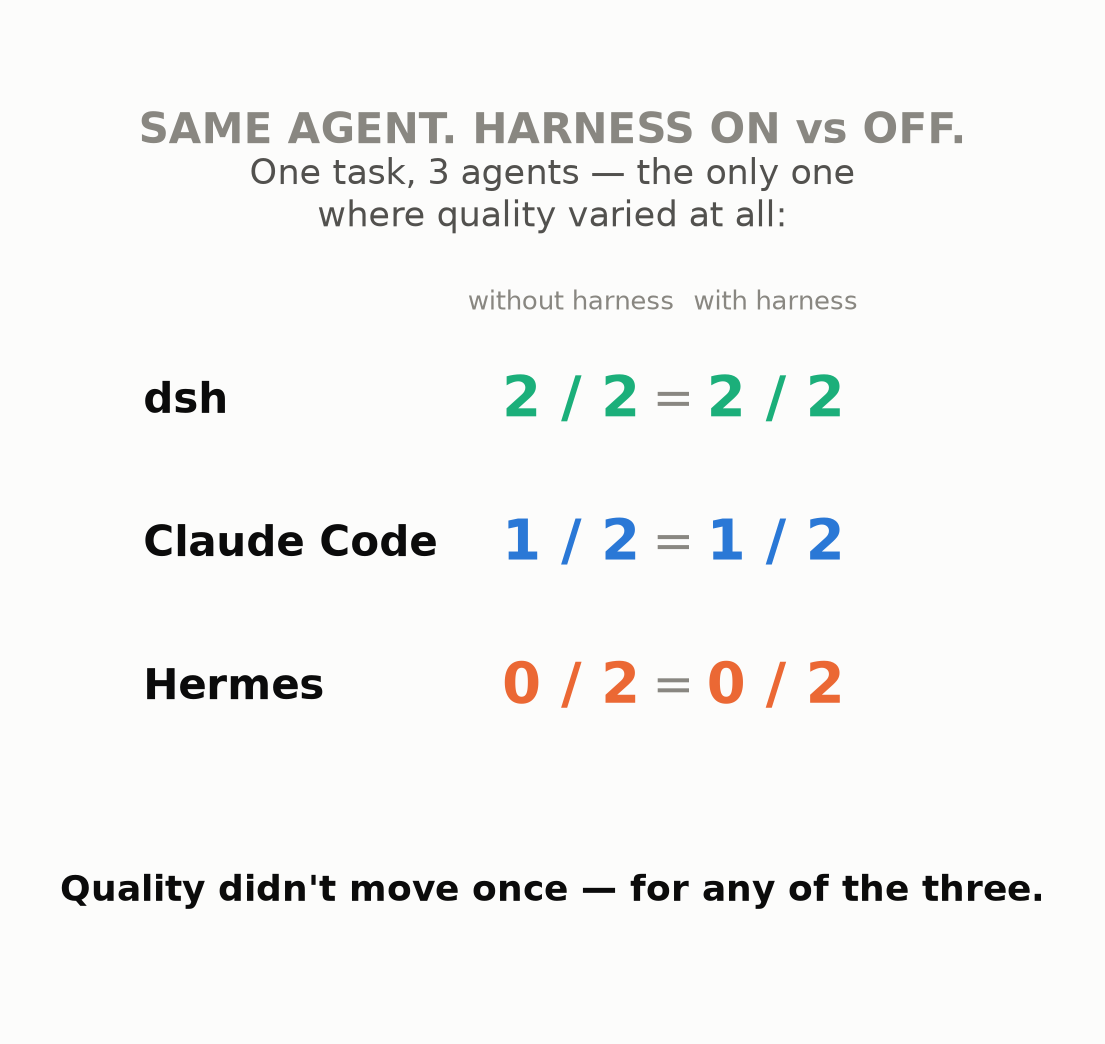
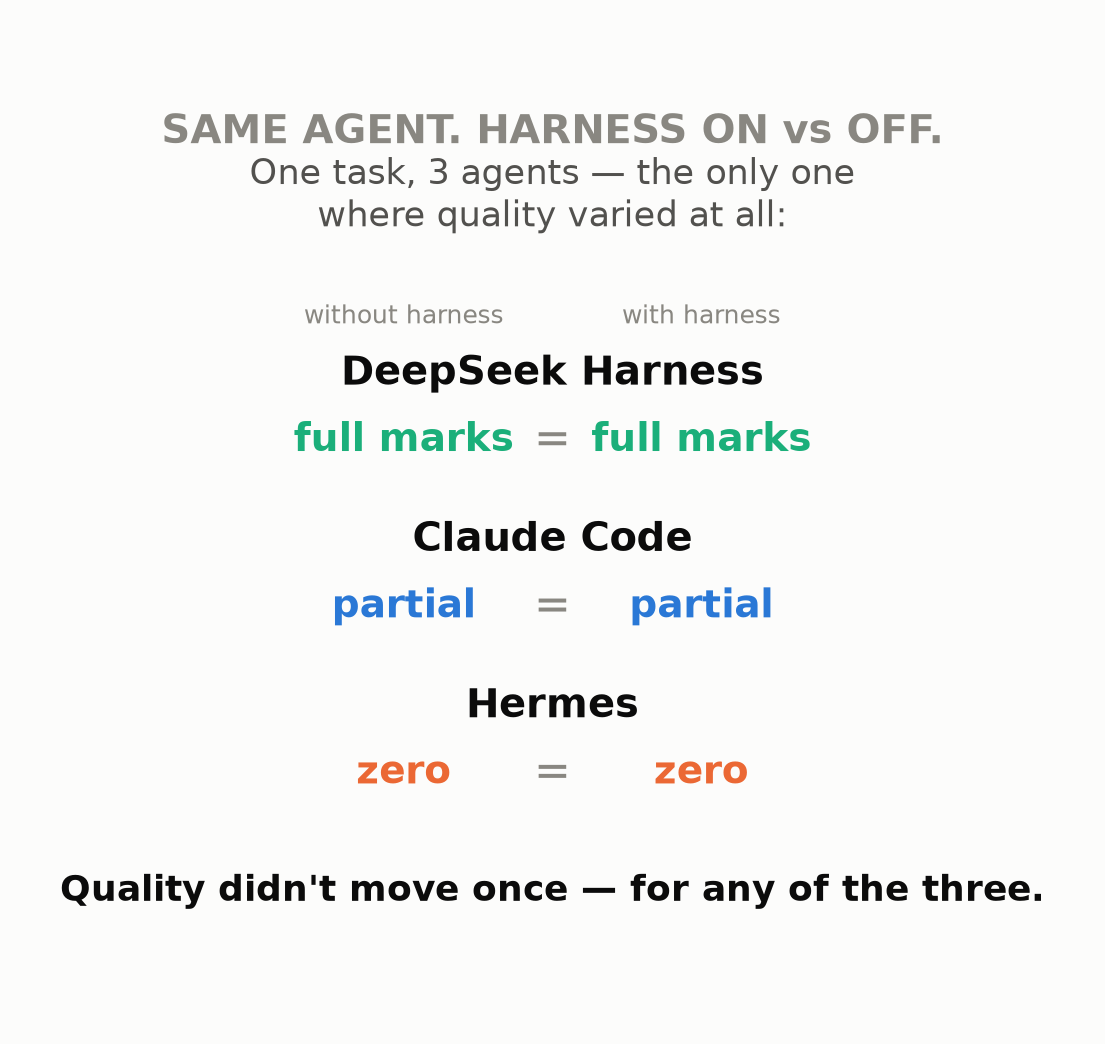
piece(harness-agents-pt1): rework LinkedIn posts/cards per Max's feedback
- dsh -> full "DeepSeek Harness" name everywhere it appears (random LinkedIn
  readers have no earlier definition to fall back on)
- post 1 card: replaced raw small-n score fractions (2/2, 1/2, 0/2) with
  relative/qualitative labels (full marks / partial / zero) - n=2 per cell
  doesn't support that much precision
- post 3 card: added actual OFF->ON toggle switches per agent so the
  harness-on/off axis reads visually, not just as a number
- merged old posts 4 (cheap-model payoff) + 5 (cheapest != best) into one
  post/card; softened the framing - explicitly shows Claude Code's quality
  fell by half on the cheap model on the one task we could compare, so it
  doesn't read as an uncomplicated "just switch" recommendation
- new post 5: Hermes's task-G zero-result run that still cost ~4x more with
  the harness on (effort-vs-outcome case), replacing the retired table card
- rewrote all touched post bodies to stand alone for a cold LinkedIn reader -
  dropped the "closing chart of a 5-part series" cross-reference and similar
  series-dependent framing

diff --git a/pieces/20261106_harness_agents_pt1/linkedin/gen_linkedin_cards.py b/pieces/20261106_harness_agents_pt1/linkedin/gen_linkedin_cards.py
@@ -7,16 +7,18 @@ is copied from the already fact-checked ru.md/en.md — nothing re-derived.
 import matplotlib
 matplotlib.use("Agg")
 import matplotlib.pyplot as plt
+import matplotlib.patches as mpatches
 
 BLUE = "#2a78d6"      # Claude Code
 ORANGE = "#eb6834"    # Hermes
-AQUA = "#1baf7a"      # dsh
+AQUA = "#1baf7a"      # DeepSeek Harness
 RED = "#e34948"
 INK = "#0b0b0b"
 SEC_INK = "#52514e"
 MUTED = "#898781"
 SURFACE = "#fcfcfb"
 GOOD = "#0ca30c"
+TRACK_OFF = "#d8d7ce"
 
 OUT = "/home/harness/harness-projects/256/.worktrees/folder-304/session-c792b49e-e286eed0/pieces/20261106_harness_agents_pt1/linkedin"
 
@@ -37,30 +39,60 @@ def save(fig, name):
     print("wrote", name)
 
 
+def toggle(ax, cx, y, on, color, width=1.1, height=0.46):
+    """A single on/off toggle switch, centered at (cx, y)."""
+    track_color = color if on else TRACK_OFF
+    x0 = cx - width / 2
+    track = mpatches.FancyBboxPatch(
+        (x0, y - height / 2), width, height,
+        boxstyle=f"round,pad=0,rounding_size={height / 2}",
+        linewidth=0, facecolor=track_color, zorder=3,
+    )
+    ax.add_patch(track)
+    knob_r = height / 2 - 0.045
+    knob_x = x0 + width - height / 2 if on else x0 + height / 2
+    knob = mpatches.Circle((knob_x, y), knob_r, facecolor="white", edgecolor="none", zorder=4)
+    ax.add_patch(knob)
+
+
+def toggle_pair(ax, cx, y, color, label_above=None):
+    """OFF -> arrow -> ON, centered at cx."""
+    if label_above:
+        ax.text(cx, y + 0.62, label_above, fontsize=8.5, color=MUTED, ha="center")
+    toggle(ax, cx - 0.95, y, on=False, color=color)
+    ax.text(cx, y, "→", fontsize=15, color=MUTED, ha="center", va="center")
+    toggle(ax, cx + 0.95, y, on=True, color=color)
+
+
 # =====================================================================
-# CARD 1 — quality didn't move
+# CARD 1 — quality didn't move (relative ranking, no raw small-n counts)
 # =====================================================================
 fig, ax = new_fig()
-ax.text(5, 9.1, "SAME AGENT. HARNESS ON vs OFF.", fontsize=15, color=MUTED, ha="center", fontweight="bold")
+ax.text(5, 9.1, "SAME AGENT. HARNESS ON vs OFF.", fontsize=14.5, color=MUTED, ha="center", fontweight="bold")
 ax.text(5, 8.2, "One task, 3 agents — the only one\nwhere quality varied at all:", fontsize=12.5, color=SEC_INK, ha="center")
 
-rows = [("dsh", AQUA, "2 / 2", "2 / 2"), ("Claude Code", BLUE, "1 / 2", "1 / 2"), ("Hermes", ORANGE, "0 / 2", "0 / 2")]
-y0 = 6.3
-for i, (name, color, wo, w) in enumerate(rows):
-    y = y0 - i * 1.55
-    ax.text(0.6, y, name, fontsize=15, color=INK, ha="left", va="center", fontweight="bold")
-    ax.text(5.2, y, wo, fontsize=20, color=color, ha="center", va="center", fontweight="bold")
-    ax.text(6.3, y, "=", fontsize=18, color=MUTED, ha="center", va="center")
-    ax.text(7.4, y, w, fontsize=20, color=color, ha="center", va="center", fontweight="bold")
+ax.text(3.4, 7.15, "without harness", fontsize=9, color=MUTED, ha="center")
+ax.text(6.6, 7.15, "with harness", fontsize=9, color=MUTED, ha="center")
 
-ax.text(5.2, 7.3, "without harness", fontsize=9.5, color=MUTED, ha="center")
-ax.text(7.4, 7.3, "with harness", fontsize=9.5, color=MUTED, ha="center")
+rows = [
+    ("DeepSeek Harness", AQUA, "full marks", "full marks"),
+    ("Claude Code", BLUE, "partial", "partial"),
+    ("Hermes", ORANGE, "zero", "zero"),
+]
+y0 = 6.6
+for i, (name, color, wo, w) in enumerate(rows):
+    y = y0 - i * 1.8
+    ax.text(5, y, name, fontsize=14.5, color=INK, ha="center", va="center", fontweight="bold")
+    yv = y - 0.72
+    ax.text(3.4, yv, wo, fontsize=14, color=color, ha="center", va="center", fontweight="bold")
+    ax.text(5, yv, "=", fontsize=16, color=MUTED, ha="center", va="center")
+    ax.text(6.6, yv, w, fontsize=14, color=color, ha="center", va="center", fontweight="bold")
 
 ax.text(5, 0.9, "Quality didn't move once — for any of the three.", fontsize=13, color=INK, ha="center", fontweight="bold")
 save(fig, "card1_quality_flat")
 
 # =====================================================================
-# CARD 2 — agent noise bigger than the harness signal
+# CARD 2 — agent noise bigger than the harness signal (unchanged)
 # =====================================================================
 fig, ax = new_fig()
 ax.text(5, 9.1, "RUN IT TWICE.", fontsize=22, color=INK, ha="center", fontweight="bold")
@@ -78,65 +110,70 @@ ax.text(5, 1.3, "The agent's own noise outsized\nthe harness effect we were test
 save(fig, "card2_noise_vs_signal")
 
 # =====================================================================
-# CARD 3 — mirror effect on the same switch
+# CARD 3 — mirror effect on the same switch, with an actual toggle
 # =====================================================================
 fig, ax = new_fig()
-ax.text(5, 9.1, "SAME SWITCH. SAME TASK.", fontsize=16, color=MUTED, ha="center", fontweight="bold")
-ax.text(5, 8.25, "Turning the harness ON changed token spend:", fontsize=12.5, color=SEC_INK, ha="center")
+ax.text(5, 9.3, "SAME SWITCH. SAME TASK.", fontsize=16, color=MUTED, ha="center", fontweight="bold")
+ax.text(5, 8.45, "Flipping the harness ON moved token spend:", fontsize=12, color=SEC_INK, ha="center")
 
-ax.text(3, 5.9, "+333%", fontsize=40, color=RED, ha="center", fontweight="bold")
-ax.text(3, 4.85, "Claude Code", fontsize=13, color=INK, ha="center", fontweight="bold")
+toggle_pair(ax, 3, 7.15, BLUE, label_above="harness")
+toggle_pair(ax, 7.3, 7.15, ORANGE, label_above="harness")
 
-ax.text(7.3, 5.9, "−74%", fontsize=40, color=BLUE, ha="center", fontweight="bold")
-ax.text(7.3, 4.85, "Hermes", fontsize=13, color=INK, ha="center", fontweight="bold")
+ax.text(3, 5.7, "+333%", fontsize=36, color=RED, ha="center", fontweight="bold")
+ax.text(3, 4.75, "Claude Code", fontsize=13, color=INK, ha="center", fontweight="bold")
 
-ax.plot([5.1, 5.1], [4.2, 7.1], color="#d8d7ce", linewidth=1.5)
+ax.text(7.3, 5.7, "−74%", fontsize=36, color=BLUE, ha="center", fontweight="bold")
+ax.text(7.3, 4.75, "Hermes", fontsize=13, color=INK, ha="center", fontweight="bold")
+
+ax.plot([5.1, 5.1], [4.1, 7.9], color="#d8d7ce", linewidth=1.5)
 
 ax.text(5, 2.9, "Correct answers either way: 0 out of 4.\nFor both agents.", fontsize=12.5, color=SEC_INK, ha="center")
 ax.text(5, 1.1, "One switch. Opposite reactions. Same outcome.", fontsize=13.5, color=INK, ha="center", fontweight="bold")
 save(fig, "card3_mirror_effect")
 
 # =====================================================================
-# CARD 4 — cheap model payoff differs 6x
+# CARD 4 — cheaper model: savings differ hugely, quality isn't automatic
 # =====================================================================
 fig, ax = new_fig()
-ax.text(5, 9.1, '"JUST USE A CHEAPER MODEL."', fontsize=15.5, color=MUTED, ha="center", fontweight="bold")
-ax.text(5, 8.25, "Same advice, two agents, same cheap/expensive pair:", fontsize=12, color=SEC_INK, ha="center")
+ax.text(5, 9.25, "SAME ADVICE: “USE THE CHEAPER MODEL.”", fontsize=13, color=MUTED, ha="center", fontweight="bold")
+ax.text(5, 8.5, "Two agents, same cheap/pricier pair, same tasks:", fontsize=11.5, color=SEC_INK, ha="center")
 
-ax.text(3, 5.8, "÷9", fontsize=50, color=BLUE, ha="center", fontweight="bold")
-ax.text(3, 4.6, "Claude Code", fontsize=13, color=INK, ha="center", fontweight="bold")
+ax.text(3, 6.9, "÷9", fontsize=46, color=BLUE, ha="center", fontweight="bold")
+ax.text(3, 5.85, "Claude Code", fontsize=12.5, color=INK, ha="center", fontweight="bold")
 
-ax.text(7.3, 5.8, "÷56", fontsize=50, color=ORANGE, ha="center", fontweight="bold")
-ax.text(7.3, 4.6, "Hermes", fontsize=13, color=INK, ha="center", fontweight="bold")
+ax.text(7.3, 6.9, "÷56", fontsize=46, color=ORANGE, ha="center", fontweight="bold")
+ax.text(7.3, 5.85, "Hermes", fontsize=12.5, color=INK, ha="center", fontweight="bold")
 
-ax.plot([5.1, 5.1], [3.9, 7.0], color="#d8d7ce", linewidth=1.5)
+ax.plot([5.1, 5.1], [5.3, 7.9], color="#d8d7ce", linewidth=1.5)
 
-ax.text(5, 1.3, "Same advice. More than 6× difference in payoff.", fontsize=13.5, color=INK, ha="center", fontweight="bold")
-save(fig, "card4_cheap_model_payoff")
+ax.text(5, 4.3, "Quality on the one task we could compare\nbefore → after the switch:", fontsize=10.5, color=SEC_INK, ha="center")
+ax.text(3, 3.1, "full → half", fontsize=15, color=BLUE, ha="center", fontweight="bold")
+ax.text(3, 2.45, "Claude Code", fontsize=9.5, color=MUTED, ha="center")
+ax.text(7.3, 3.25, "full marks\n(cheap model only)", fontsize=12, color=AQUA, ha="center", fontweight="bold")
+ax.text(7.3, 2.45, "DeepSeek Harness", fontsize=9.5, color=MUTED, ha="center")
+
+ax.text(5, 0.6, "Bigger isn't automatically better. Cheaper isn't automatically worse.", fontsize=12, color=INK, ha="center", fontweight="bold")
+save(fig, "card4_cheap_model")
 
 # =====================================================================
-# CARD 5 — no agent wins both cost and quality
+# CARD 5 — effort vs outcome: zero files changed, still cost more
 # =====================================================================
 fig, ax = new_fig()
-ax.text(5, 9.1, "CHEAPEST ≠ BEST.", fontsize=22, color=INK, ha="center", fontweight="bold")
-ax.text(5, 8.25, "54 runs, 3 agents, tokens + a quality rubric:", fontsize=12.5, color=SEC_INK, ha="center")
+ax.text(5, 9.25, "ZERO FILES CHANGED.", fontsize=22, color=INK, ha="center", fontweight="bold")
+ax.text(5, 8.4, "Same task, same model, for Hermes:", fontsize=12.5, color=SEC_INK, ha="center")
 
-rows5 = [
-    ("Hermes", ORANGE, "cheapest", "lowest quality"),
-    ("dsh", AQUA, "mid cost", "highest quality"),
-    ("Claude Code", BLUE, "most expensive", "mid quality"),
-]
-y0 = 6.5
-for i, (name, color, cost, qual) in enumerate(rows5):
-    y = y0 - i * 1.5
-    ax.text(0.6, y, name, fontsize=14.5, color=INK, ha="left", va="center", fontweight="bold")
-    ax.text(5.6, y, cost, fontsize=12.5, color=color, ha="center", va="center", fontweight="bold")
-    ax.text(8.7, y, qual, fontsize=12.5, color=color, ha="center", va="center", fontweight="bold")
+toggle_pair(ax, 5, 6.95, ORANGE, label_above="harness")
 
-ax.text(5.6, 7.3, "on cost", fontsize=9, color=MUTED, ha="center")
-ax.text(8.7, 7.3, "on quality", fontsize=9, color=MUTED, ha="center")
+ax.text(3, 5.5, "0 files", fontsize=22, color=MUTED, ha="center", fontweight="bold")
+ax.text(3, 4.75, "without harness", fontsize=10, color=MUTED, ha="center")
 
-ax.text(5, 0.9, "No agent wins on both at once.", fontsize=14, color=INK, ha="center", fontweight="bold")
-save(fig, "card5_no_free_lunch")
+ax.text(7, 5.5, "0 files", fontsize=22, color=MUTED, ha="center", fontweight="bold")
+ax.text(7, 4.75, "with harness", fontsize=10, color=MUTED, ha="center")
+
+ax.text(5, 3.3, "≈4×", fontsize=40, color=RED, ha="center", fontweight="bold")
+ax.text(5, 2.3, "higher price for the identical\nzero-result outcome", fontsize=11, color=SEC_INK, ha="center")
+
+ax.text(5, 0.7, "Effort moved. The result didn't.", fontsize=13.5, color=INK, ha="center", fontweight="bold")
+save(fig, "card5_zero_result")
 
 print("done: 5 LinkedIn cards")

diff --git a/pieces/20261106_harness_agents_pt1/linkedin/04-cheap-model-payoff.md b/pieces/20261106_harness_agents_pt1/linkedin/04-cheap-model-payoff.md
@@ -1,20 +1,22 @@
 ---
 channel: linkedin
 status: draft
-title: 'Just use a cheaper model'
-image: card4_cheap_model_payoff.png
+title: Bigger isn't always better
+image: card4_cheap_model.png
 series: harness-agents-pt1 (post 4 of 5)
 ---
 
-**"Just switch to a cheaper model" is the same advice for every agent. The payoff isn't.**
+**Two AI coding agents got the exact same advice — switch to the cheaper version of the same model. The savings weren't close to equal. And "cheaper" didn't automatically mean "worse," either.**
 
-We moved two coding agents from the expensive version of a model to the cheap one in the same lineup, same tasks. Claude Code's bill dropped 9×. Hermes's dropped 56×. More than a sixfold gap between them, from the identical switch.
+Across the full test — 54 runs, three agents, token cost plus a quality check — no single agent came out ahead on both price and quality at once. The cheapest agent by tokens also scored the lowest on quality, where quality could be measured at all. The agent with the best quality score wasn't the cheapest one.
 
-The rate card is the same for both. What differs is how each agent is built — how often it calls the model, and how much it rereads from cache instead of resending fresh. Cache is priced differently from a fresh token, so an agent that leans on cache gets a double discount when the model gets cheaper. One that doesn't, gets a single one.
+Then we looked at one specific move: shifting an agent from the pricier version of a model to the cheaper one in the same lineup, same tasks. Claude Code's bill fell roughly 9×. Hermes's fell roughly 56× — more than six times the gap, from the identical move. The difference comes down to how each agent is built: how often it calls the model, and how much it rereads from cache instead of resending context fresh — not the price list itself.
 
-If you're optimizing spend by model tier alone, the agent's own architecture might matter more than the price list.
+On the one task where we could compare a single agent's own result before and after that switch, Claude Code's score fell by half on the cheaper model. DeepSeek Harness, tested only on the cheaper model, still turned in a perfect score.
 
-Anyone measured this on their own stack — did the "obvious" savings actually show up?
+A pricier model isn't automatically the better choice. A cheaper one isn't automatically the worse one. Worth checking on your own tasks before assuming either way.
+
+Has a cheaper model ever cost you more than it saved — or surprised you by holding up just fine?
 
 Full study, open data, open tooling: [link to tellian.io]
 

diff --git a/pieces/20261106_harness_agents_pt1/linkedin/03-mirror-effect.md b/pieces/20261106_harness_agents_pt1/linkedin/03-mirror-effect.md
@@ -6,16 +6,16 @@ image: card3_mirror_effect.png
 series: harness-agents-pt1 (post 3 of 5)
 ---
 
-**Same switch. Same task. One agent's token spend went up 333%. Another's dropped 74%. Both got the same answer wrong.**
+**Flip the exact same switch — turning a "harness" (rules, tools, memory) on — for two different AI coding agents, on the same task. One agent's cost went up 333%. The other's dropped 74%. Both still got it wrong.**
 
-We flipped the exact same "harness" (rules, tools, memory) on for two different coding agents, on the same task — a PR review with an independently pre-written answer key. Claude Code's cost quadrupled. Hermes's cost dropped to a quarter. Neither agent found the actual defects, with the harness or without it — 0 out of 4 either way.
+The task was a PR review with an answer key written independently in advance, so right and wrong were decided before we ran anything. Claude Code's cost quadrupled when the harness switched on. Hermes's cost dropped to a quarter. Neither agent found the actual defects in the pull request — with the harness, or without it.
 
 Tokens moved in opposite directions. Correctness didn't move at all.
 
-The same set of rules doesn't land the same way twice. Tune a harness for one agent, and it's a tune for that agent's character — not a setup that travels to the next one.
+The same switch doesn't do the same thing twice. Tune a setup for one agent, and it's tuned to that agent's own habits — not something that automatically carries over to the next one.
 
-Has switching agents ever flipped a setup that "just worked" for you?
+Has switching tools or agents ever flipped a setup that "just worked" for you?
 
 Full study, open data, open tooling: [link to tellian.io]
 
-#AIAgents #ClaudeCode #PromptEngineering #DeveloperTools #LLM
+#AIAgents #PromptEngineering #DeveloperTools #LLM #Benchmarking

diff --git a/pieces/20261106_harness_agents_pt1/linkedin/01-quality-flat.md b/pieces/20261106_harness_agents_pt1/linkedin/01-quality-flat.md
@@ -6,16 +6,16 @@ image: card1_quality_flat.png
 series: harness-agents-pt1 (post 1 of 5)
 ---
 
-**We gave a coding agent a full "harness" — rules, tools, memory — then took it away. Ran that on three different agents. Quality didn't move once.**
+**We gave an AI coding agent a full "harness" — a set of rules, tools and memory wrapped around it — then took it away. Ran that test on three different agents. Quality didn't move once.**
 
-dsh scored 2/2 with the harness and 2/2 without. Claude Code scored 1/2 both times. Hermes scored 0/2 both times.
+DeepSeek Harness scored full marks whether the harness was switched on or off. Claude Code scored the same partial result either way. Hermes scored zero either way.
 
-This was the one task, out of nine, where quality actually varied at all — just not because of the harness. It varied between agents, not between harness-on and harness-off.
+This was the one task, out of nine we ran, where quality varied between the agents at all — it just didn't vary because of the harness. It varied between the agents themselves.
 
-If you just chat with an assistant now and then, this isn't really about you. It matters if you're the one deciding whether to invest in rules, tools, and memory around a coding agent running in production.
+If you only use an AI assistant casually, this isn't really about you. It matters more if you're deciding whether rules, tools and memory are worth building around a coding agent in production.
 
-So if not quality — what do you think the harness is actually buying?
+So if not quality — what do you think a setup like this is actually buying you?
 
 Full study, open data, open tooling: [link to tellian.io]
 
-#AIAgents #ClaudeCode #DeveloperTools #Benchmarking #LLM
+#AIAgents #DeveloperTools #Benchmarking #LLM #SoftwareEngineering

diff --git a/pieces/20261106_harness_agents_pt1/linkedin/05-zero-result.md b/pieces/20261106_harness_agents_pt1/linkedin/05-zero-result.md
@@ -1,0 +1,21 @@
+---
+channel: linkedin
+status: draft
+title: Zero changes, higher price
+image: card5_zero_result.png
+series: harness-agents-pt1 (post 5 of 5)
+---
+
+**One AI coding agent changed zero files on a task — with a "harness" switched on, and with it switched off. Switching the harness on still made that same zero-result attempt cost roughly four times more.**
+
+Three coding agents ran the same task on the same model, each one twice — once with a harness (a set of rules, tools and memory wrapped around the agent) on, once with it off. Hermes didn't touch a single line of code in either run. Its score was zero both times. But turning the harness on made that same zero-result attempt cost roughly 4× more — the agent spent extra effort re-reading the requirements and checking against a checklist, without any of it turning into an actual edit.
+
+Effort and outcome aren't the same thing. Two other agents made at least partial progress on the same task, so it wasn't an impossible one. For this agent, on this run, more process bought more re-reading — not more result.
+
+Before trusting that "more structure" improved an outcome, it's worth checking whether it actually changed what came out — or just the bill.
+
+Ever paid more for a setup that, in the end, changed nothing?
+
+Full study, open data, open tooling: [link to tellian.io]
+
+#AIAgents #DeveloperTools #Benchmarking #LLM #SoftwareEngineering
